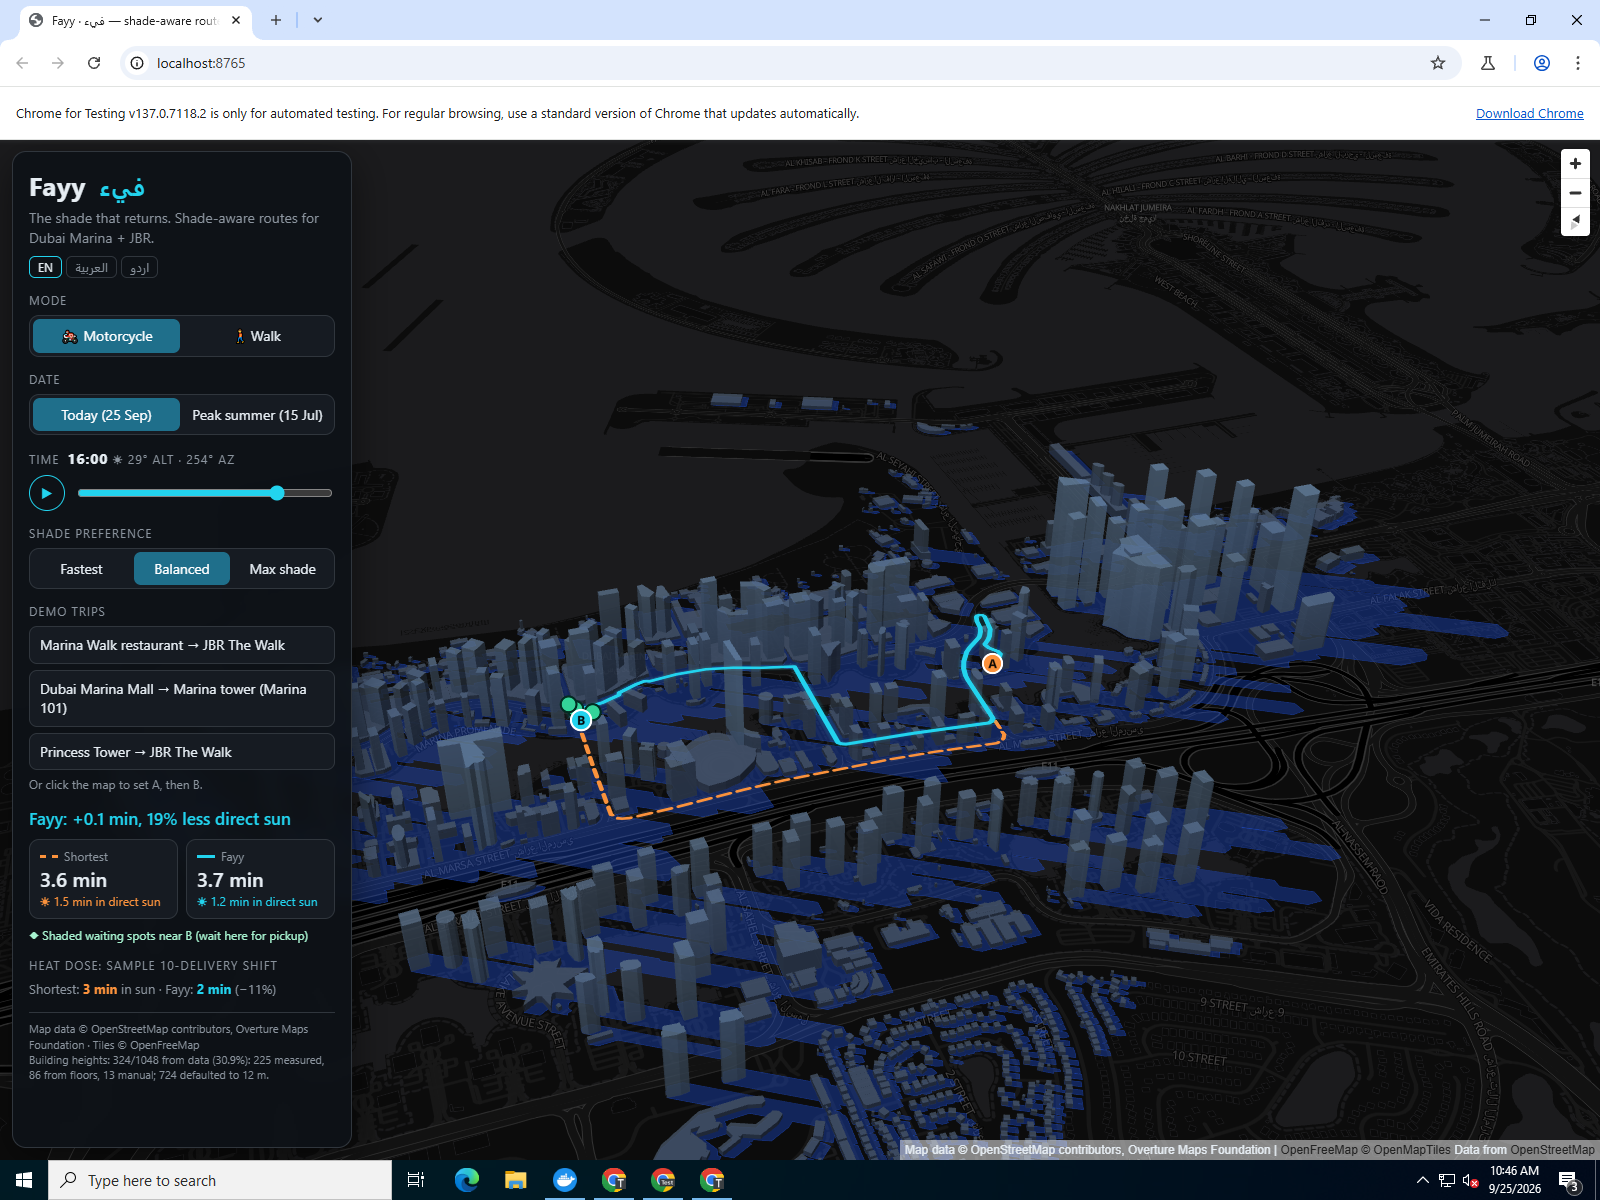
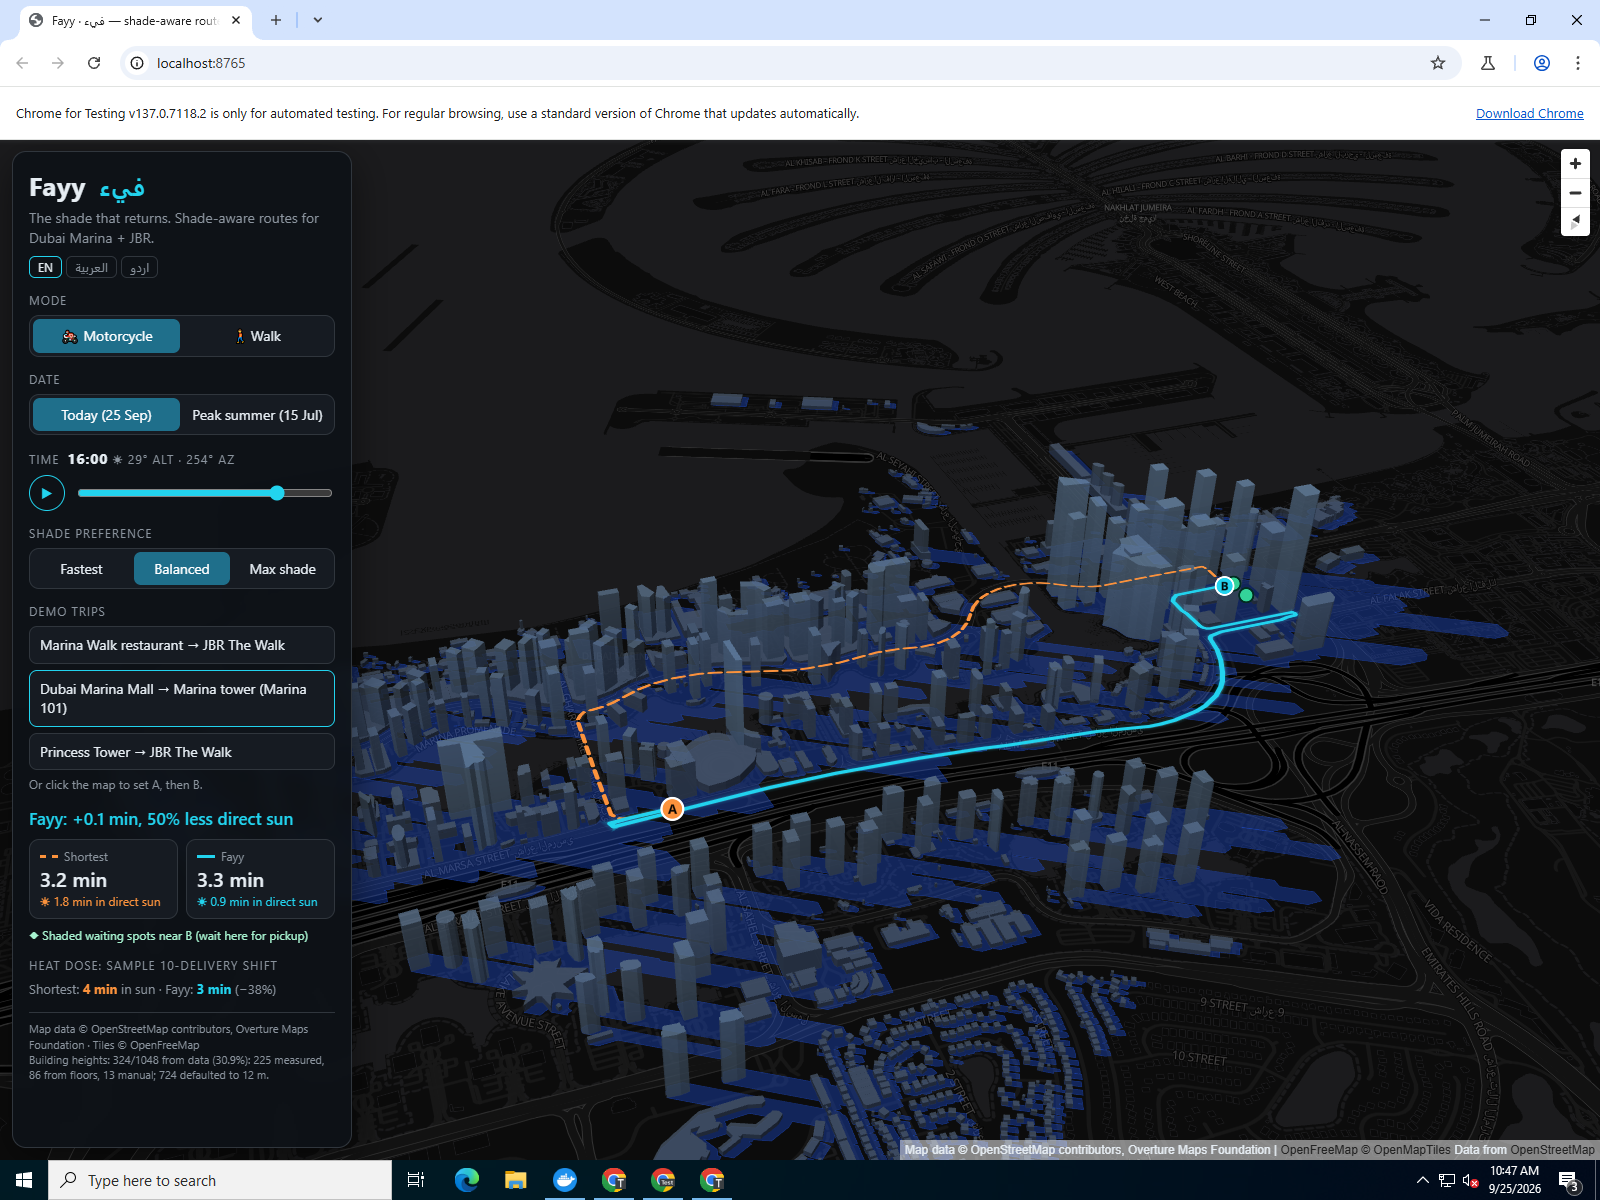
Default to Marina Mall preset; updated screenshot

diff --git a/docs/app.js b/docs/app.js
@@ -130,7 +130,7 @@ function setupMap() {
     map.addLayer({ id: "pts-l", type: "symbol", source: "pts", layout: { "text-field": ["get", "l"], "text-size": 12, "text-font": ["Noto Sans Bold"], "text-allow-overlap": true }, paint: { "text-color": "#000" } });
     map.on("click", onMapClick);
     await refresh();
-    runPreset(0);
+    runPreset(1);
   });
 }
 
